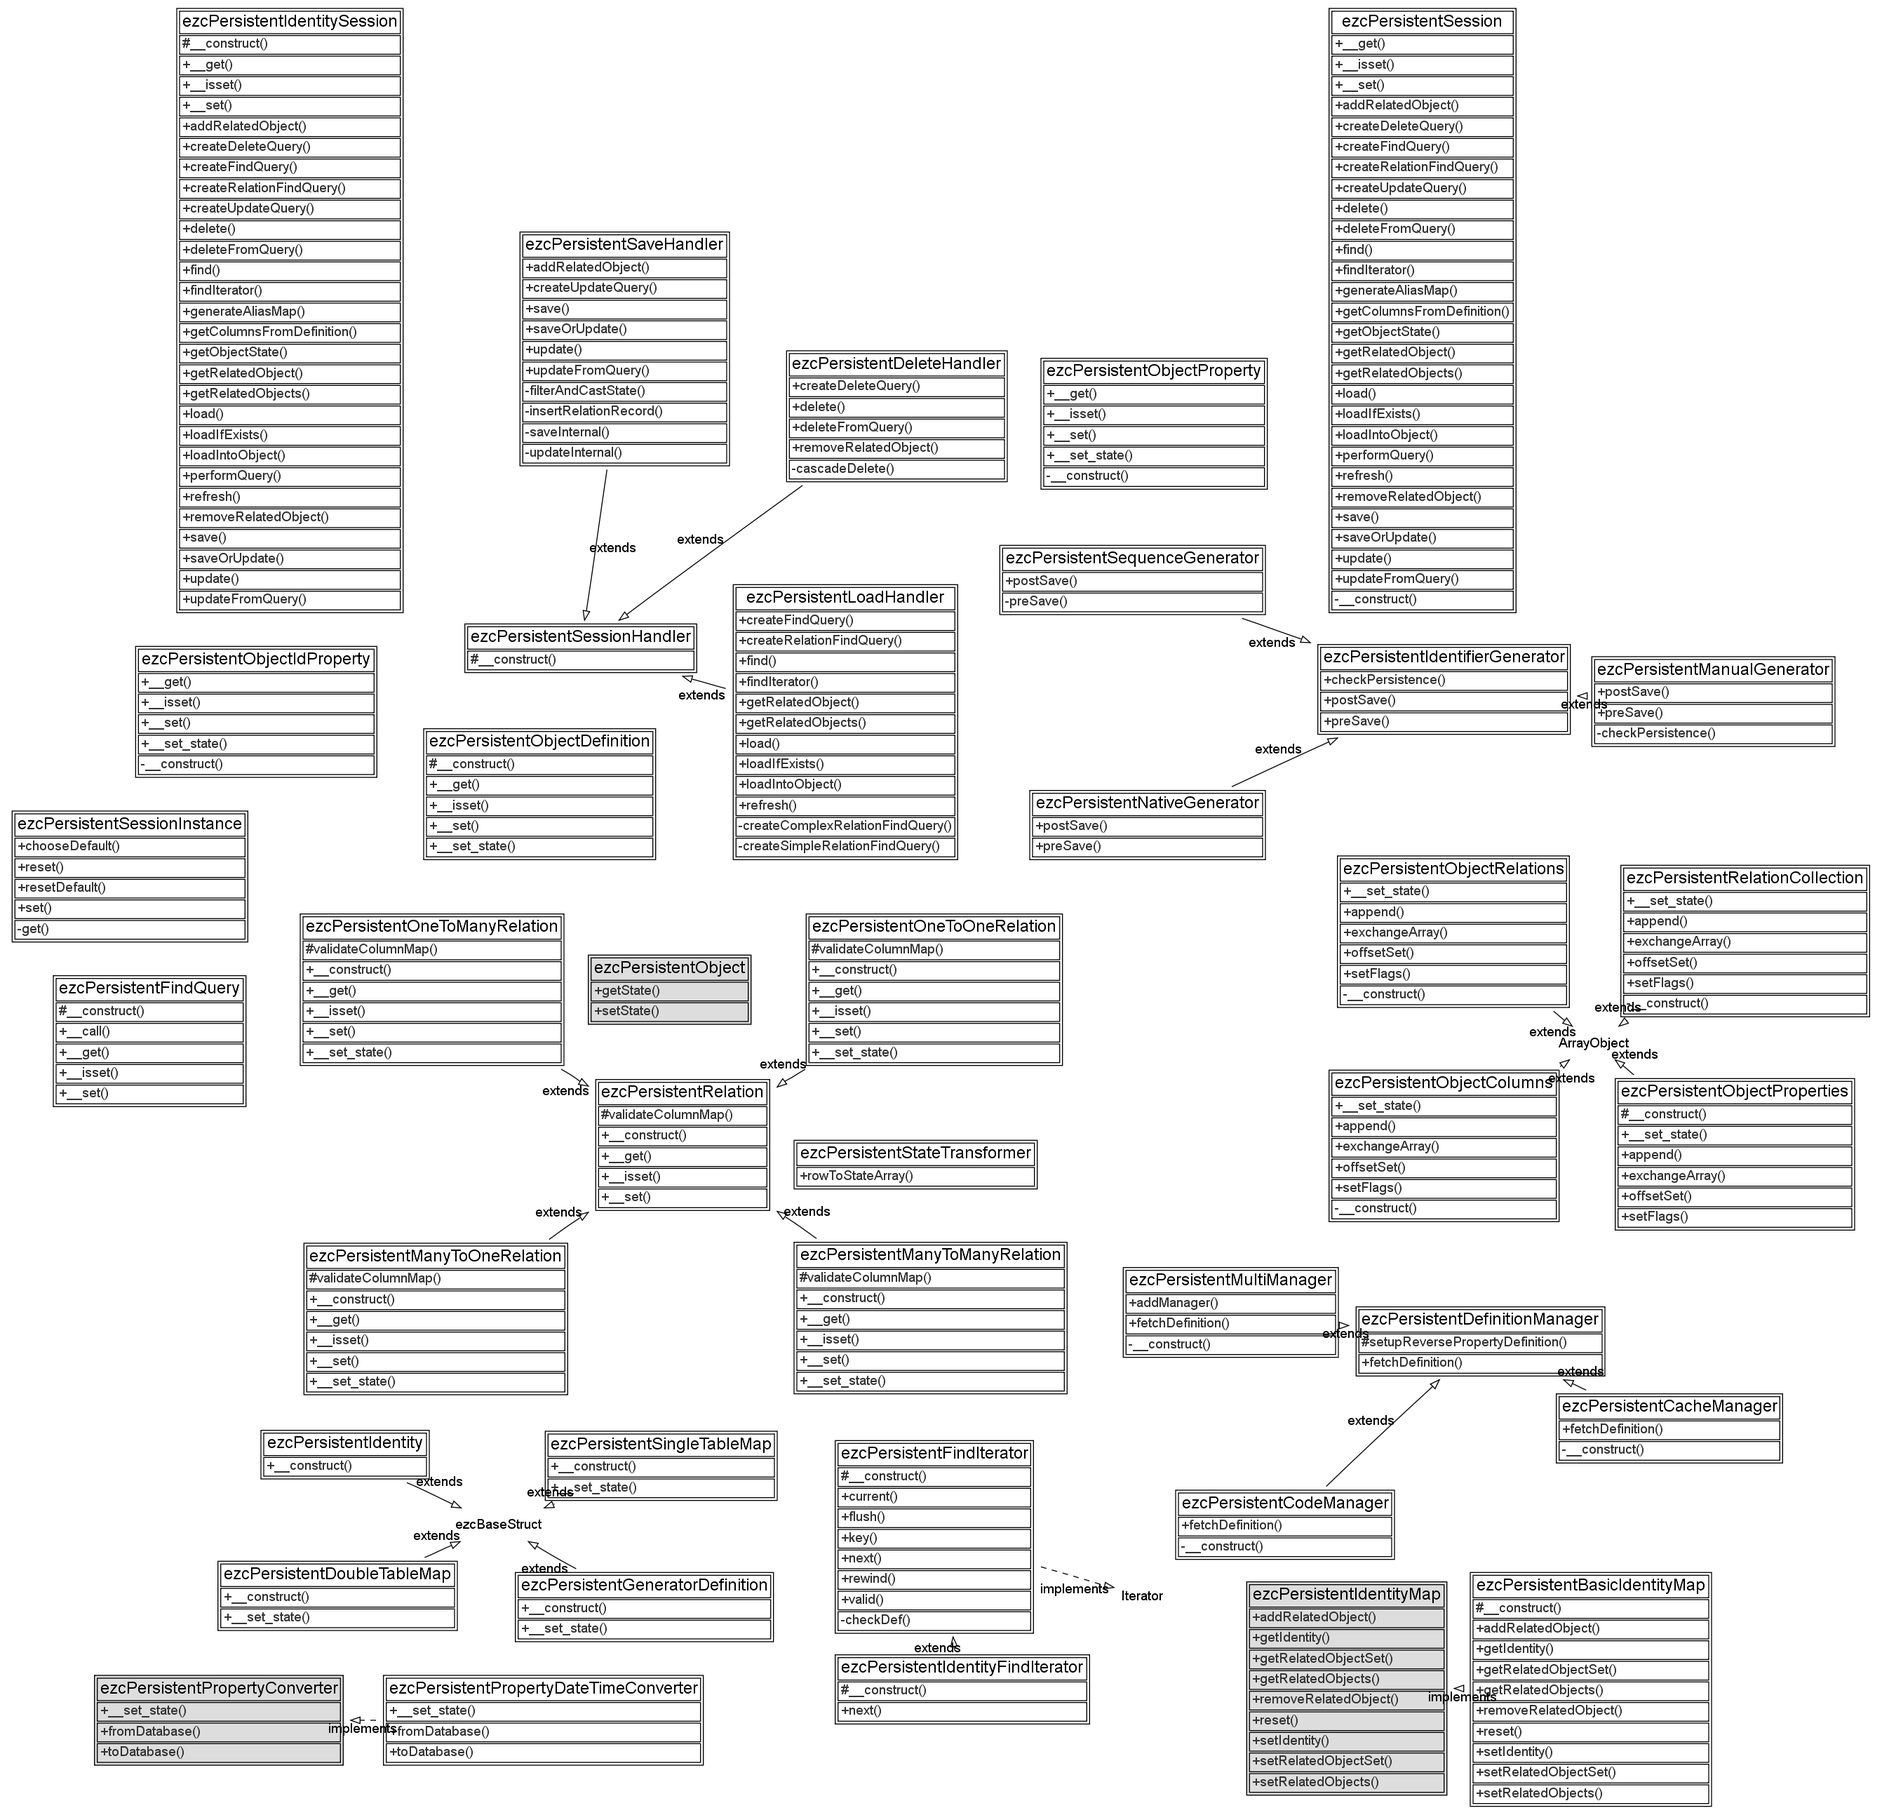
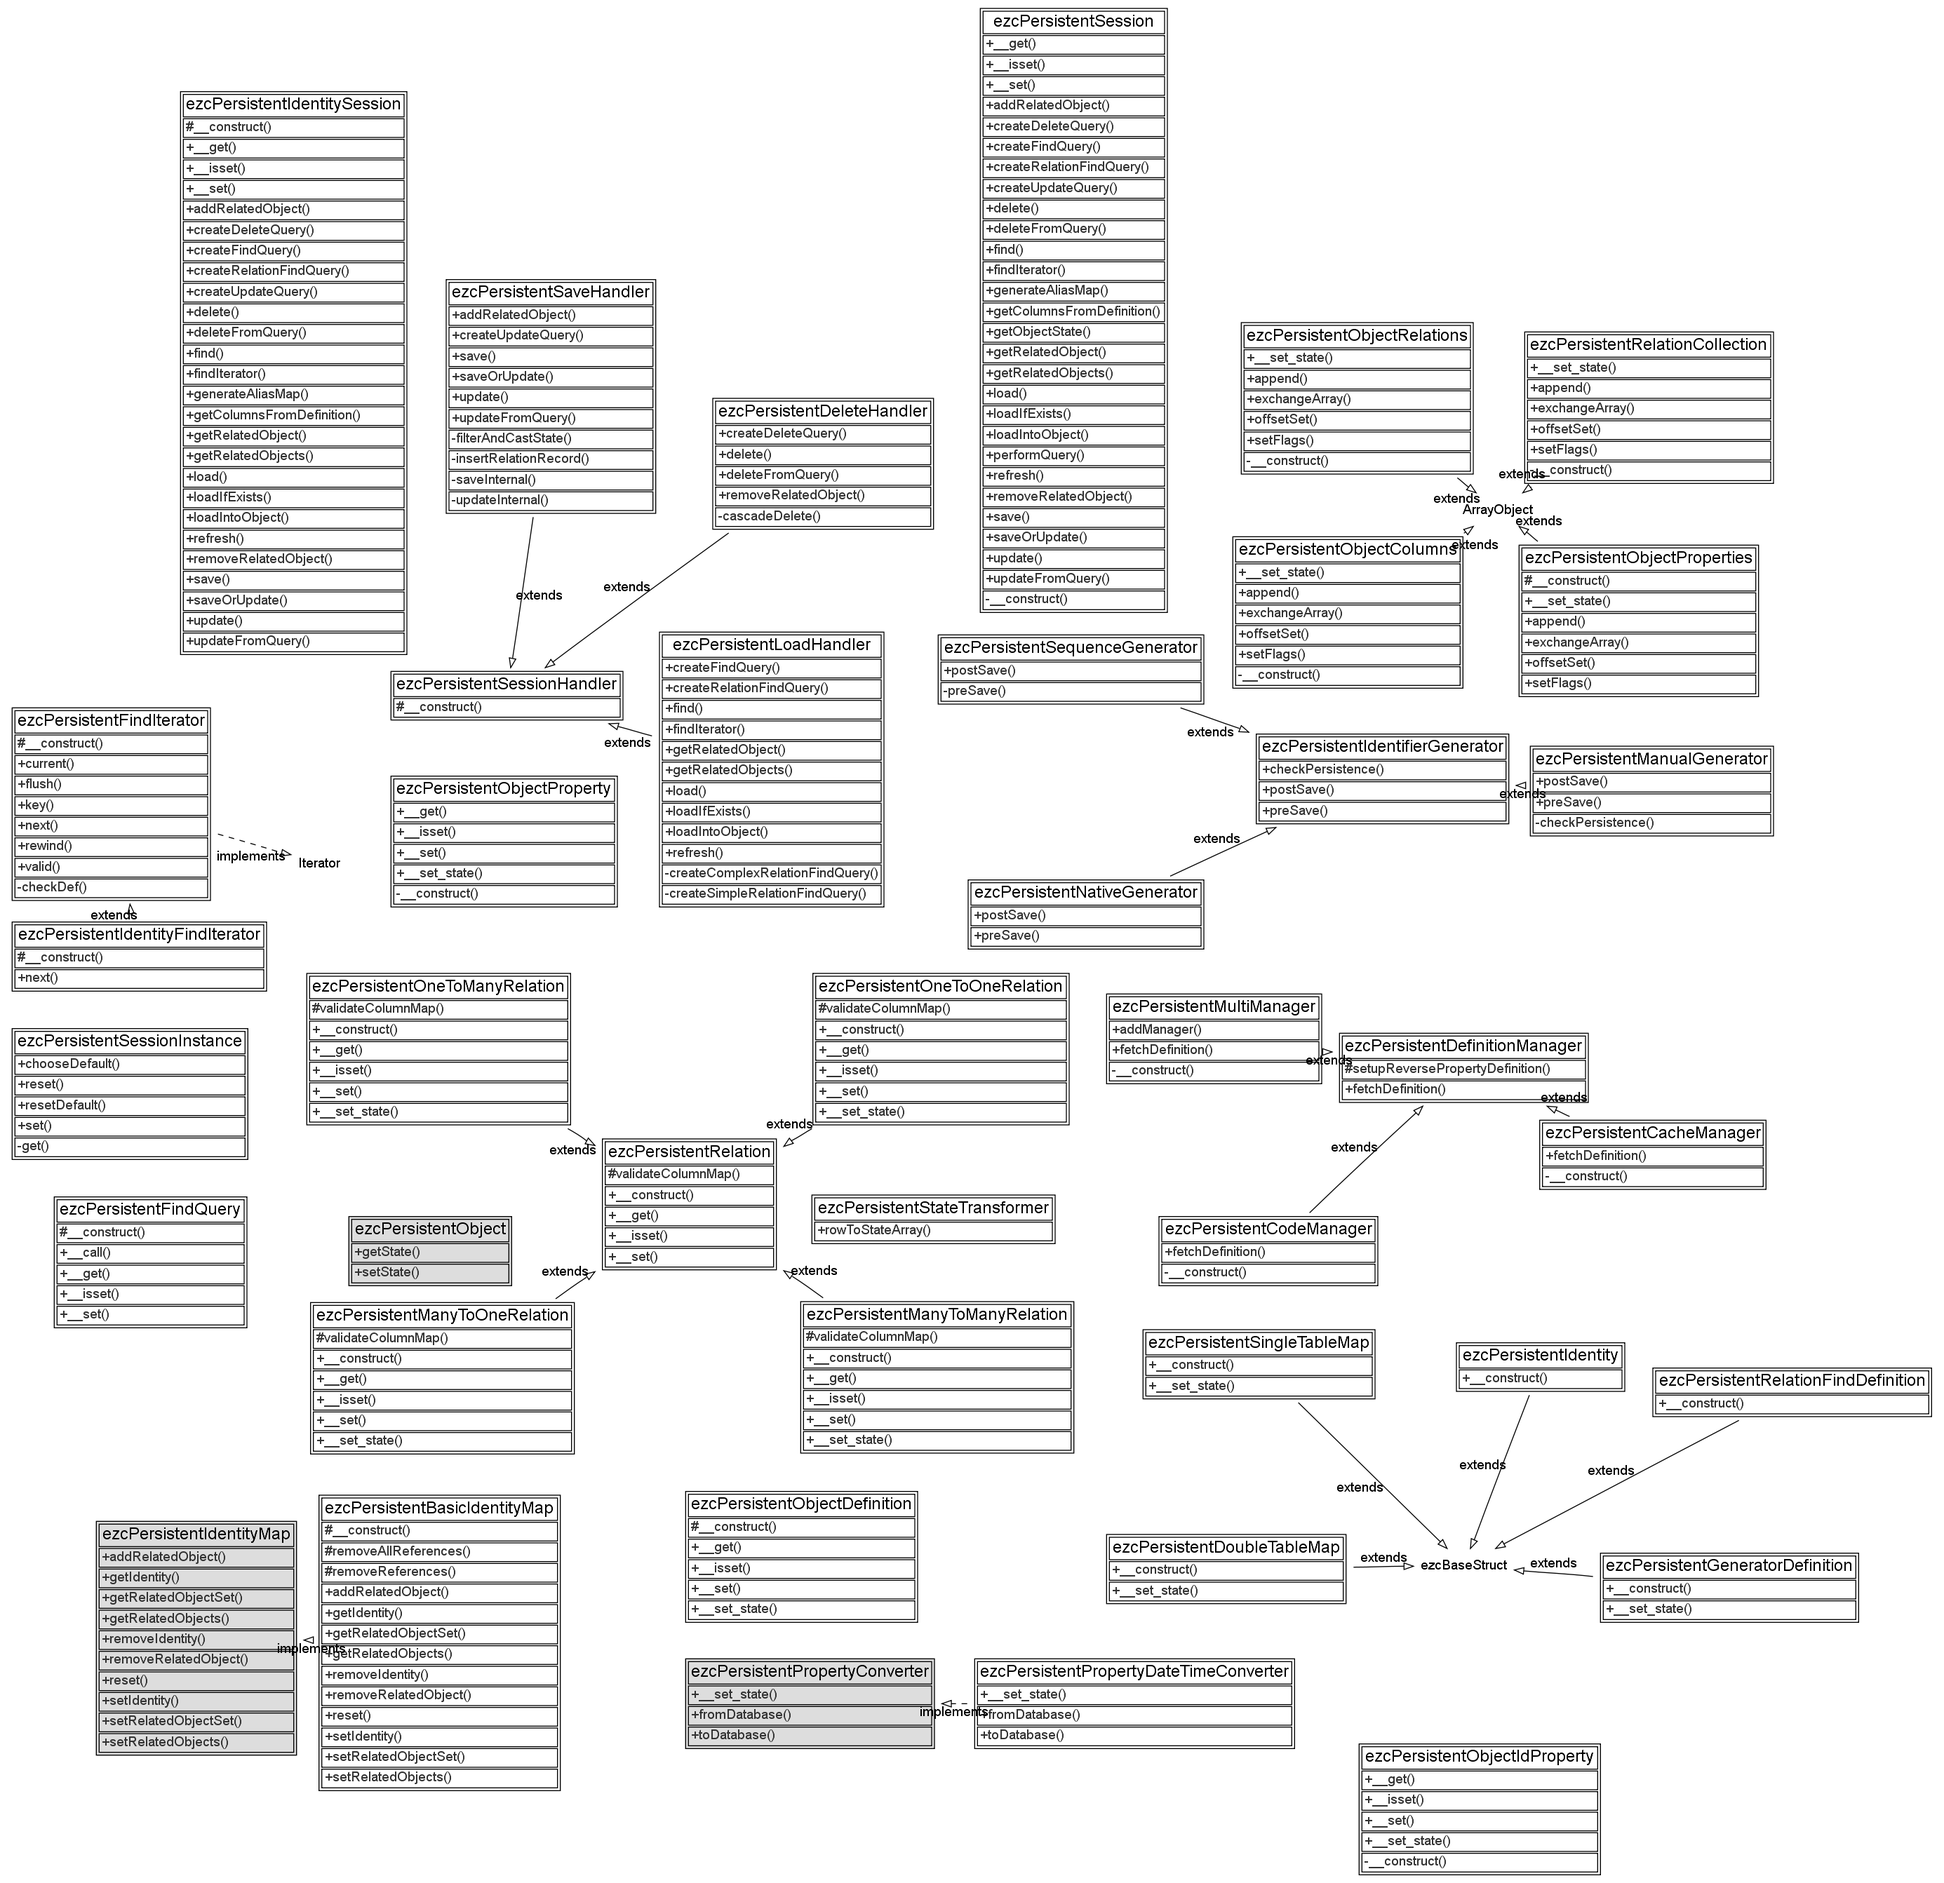
- Added ezcPersistentRelationFindDefinition struct.
git-svn-id: http://svn.ez.no/svn/ezcomponents/trunk@9954 bc0e7bdc-f0fc-0310-8ff6-f601c06e1256

Changed region(s): [[0.0, 0.0, 1.0, 1.0], [0.8662, 0.4639, 1.0, 0.5566]]

diff --git a/PersistentObject/src/structs/relation_find_definition.php b/PersistentObject/src/structs/relation_find_definition.php
@@ -1,0 +1,66 @@
+<?php
+/**
+ * File containing the ezcPersistentRelationFindDefinition struct.
+ *
+ * @package PersistentObject
+ * @version //autogentag//
+ * @copyright Copyright (C) 2005-2009 eZ Systems AS. All rights reserved.
+ * @license http://ez.no/licenses/new_bsd New BSD License
+ */
+/**
+ * Struct class representing a relation find definition.
+ *
+ * This struct class is used in ezcPersistentIdentitySession to define a tree
+ * of relations to be fetched from the database in one go. This struct is used
+ * with {@link ezcPersistentIdentitySession::loadWithRelatedObjects()}.
+ *
+ * The $relatedClass referes to a class name that is related by the original
+ * class to load. If this relation consists of a collection of named relations,
+ * $relationName must be set in addition. The $furtherRelations property can be
+ * used to define further relations that related to $relatedClass.
+ * 
+ * @package PersistentObject
+ * @version //autogen//
+ */
+class ezcPersistentRelationFindDefinition extends ezcBaseStruct
+{
+    /**
+     * The related class that should be fetched.
+     * 
+     * @var string
+     */
+    public $relatedClass;
+
+    /**
+     * The name of the relation.
+     *
+     * Must only be not null, if relations to this class is a collection of
+     * named relations.
+     * 
+     * @var string
+     */
+    public $relationName;
+
+    /**
+     * Deeper relation definitions.
+     * 
+     * @var array(ezcPersistentRelationFindDefinition)
+     */
+    public $furtherRelations = array();
+
+    /**
+     * Creates a new relation find definition.
+     *
+     * @param string $relatedClass
+     * @param string $relationName
+     * @param array(ezcPersistentRelationFindDefinition) $furtherRelations
+     */
+    public function __construct( $relatedClass, $relationName = null, array $furtherRelations = array() )
+    {
+        $this->relatedClass     = $relatedClass;
+        $this->relationName     = $relationName;
+        $this->furtherRelations = $furtherRelations;
+    }
+}
+
+?>

diff --git a/PersistentObject/src/persistent_autoload.php b/PersistentObject/src/persistent_autoload.php
@@ -2,7 +2,7 @@
 /**
  * Autoloader definition for the PersistentObject component.
  *
- * @copyright Copyright (C) 2005-2009 eZ Systems AS. All rights reserved.
+ * @copyright Copyright (C) 2005-2009 eZ systems as. All rights reserved.
  * @license http://ez.no/licenses/new_bsd New BSD License
  * @version //autogentag//
  * @filesource
@@ -62,6 +62,7 @@ return array(
     'ezcPersistentOneToOneRelation'                            => 'PersistentObject/relations/one_to_one.php',
     'ezcPersistentPropertyDateTimeConverter'                   => 'PersistentObject/object/property_converters/date.php',
     'ezcPersistentRelationCollection'                          => 'PersistentObject/object/relation_collection.php',
+    'ezcPersistentRelationFindDefinition'                      => 'PersistentObject/structs/relation_find_definition.php',
     'ezcPersistentSaveHandler'                                 => 'PersistentObject/handlers/save_handler.php',
     'ezcPersistentSequenceGenerator'                           => 'PersistentObject/generators/sequence_generator.php',
     'ezcPersistentSession'                                     => 'PersistentObject/persistent_session.php',
